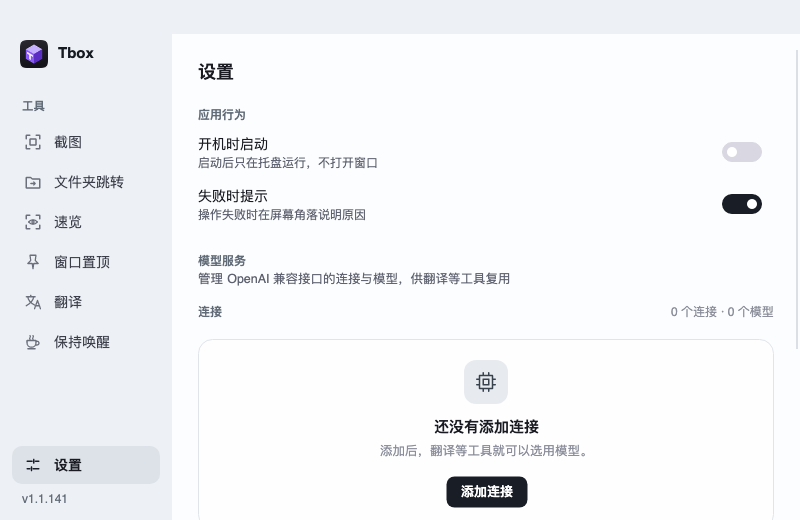
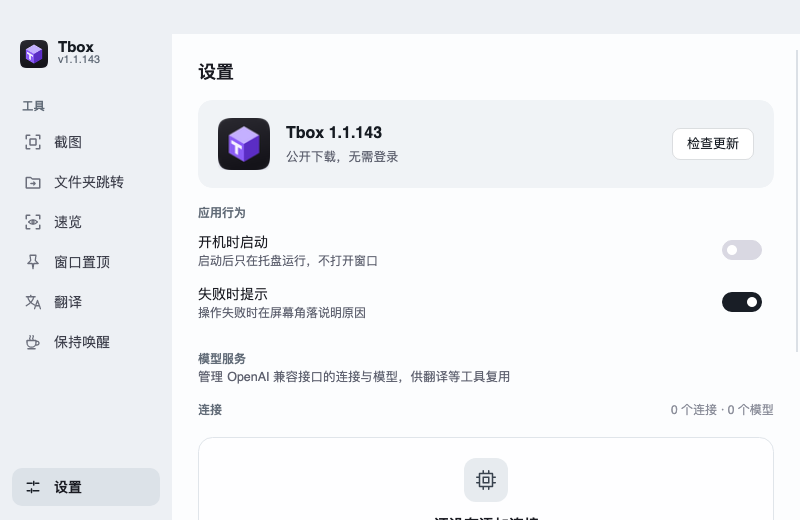
[codex] 调整设置版本卡位置并修复截图四角快速调整 (#130)
* [codex] fix: 调整版本信息位置并改进截图四角拖动

* [codex] chore: 登记验收包并准备 1.1.144 发布

diff --git a/src/Tbox.Desktop/Views/CaptureWindow.cs b/src/Tbox.Desktop/Views/CaptureWindow.cs
@@ -307,7 +307,11 @@ internal sealed class CaptureSurface : Control
         Focusable = true; Cursor = new Cursor(StandardCursorType.Cross);
     }
 
-    private CaptureSelectionBounds? Selection => _session.State.ActiveDisplay == _window.Display.Id ? _session.State.Selection : null;
+    private CaptureSelectionHandle HandleAt(Point point) => Selection is { } selection
+        ? CaptureSelectionAdjustmentPolicy.HitTest(selection, point.X, point.Y, tolerance: 7, cornerTolerance: 12)
+        : CaptureSelectionHandle.None;
+
+    internal CaptureSelectionBounds? Selection => _session.State.ActiveDisplay == _window.Display.Id ? _session.State.Selection : null;
 
     public override void Render(DrawingContext context)
     {
@@ -354,7 +358,7 @@ internal sealed class CaptureSurface : Control
         Focus(); _window.Activate();
         _start = Clamp(e.GetPosition(this));
         _clickTarget = Selection is null ? DetectedSelection : null;
-        _handle = Selection is { } old ? CaptureSelectionAdjustmentPolicy.HitTest(old, _start.X, _start.Y, 7) : CaptureSelectionHandle.None;
+        _handle = HandleAt(_start);
         _original = Selection ?? default;
         if (_handle == CaptureSelectionHandle.None && Selection is { } selected &&
             new Rect(selected.Left, selected.Top, selected.Width, selected.Height).Contains(_start) &&
@@ -382,19 +386,31 @@ internal sealed class CaptureSurface : Control
         if (!IsDragging)
         {
             _session.QueueDetection(_window, point);
-            var handle = Selection is { } bounds ? CaptureSelectionAdjustmentPolicy.HitTest(bounds, point.X, point.Y, 7) : CaptureSelectionHandle.None;
+            var handle = HandleAt(point);
             Cursor = new Cursor(handle switch
             {
                 CaptureSelectionHandle.Left or CaptureSelectionHandle.Right => StandardCursorType.SizeWestEast,
                 CaptureSelectionHandle.Top or CaptureSelectionHandle.Bottom => StandardCursorType.SizeNorthSouth,
-                CaptureSelectionHandle.TopLeft or CaptureSelectionHandle.BottomRight => StandardCursorType.TopLeftCorner,
-                CaptureSelectionHandle.TopRight or CaptureSelectionHandle.BottomLeft => StandardCursorType.TopRightCorner,
+                CaptureSelectionHandle.TopLeft => StandardCursorType.TopLeftCorner,
+                CaptureSelectionHandle.BottomRight => StandardCursorType.BottomRightCorner,
+                CaptureSelectionHandle.TopRight => StandardCursorType.TopRightCorner,
+                CaptureSelectionHandle.BottomLeft => StandardCursorType.BottomLeftCorner,
                 _ => StandardCursorType.Cross
             });
             return;
         }
+        UpdateSelection(point);
+    }
+
+    private void UpdateSelection(Point point)
+    {
+        var delta = point - _start;
+        var x = (_handle is CaptureSelectionHandle.Left or CaptureSelectionHandle.TopLeft or CaptureSelectionHandle.BottomLeft
+            ? _original.Left : _original.Right) + delta.X;
+        var y = (_handle is CaptureSelectionHandle.Top or CaptureSelectionHandle.TopLeft or CaptureSelectionHandle.TopRight
+            ? _original.Top : _original.Bottom) + delta.Y;
         var selection = _handle != CaptureSelectionHandle.None
-            ? CaptureSelectionAdjustmentPolicy.Resize(_original, _handle, point.X, point.Y, Bounds.Width, Bounds.Height, 1, 1)
+            ? CaptureSelectionAdjustmentPolicy.Resize(_original, _handle, x, y, Bounds.Width, Bounds.Height, 1, 1)
             : new CaptureSelectionBounds(Math.Min(_start.X, point.X), Math.Min(_start.Y, point.Y), Math.Abs(point.X - _start.X), Math.Abs(point.Y - _start.Y));
         _session.Select(_window.Display.Id, selection);
     }
@@ -411,6 +427,8 @@ internal sealed class CaptureSurface : Control
         var end = Clamp(e.GetPosition(this));
         if (_clickTarget is { } detected && Math.Abs(end.X - _start.X) < 3 && Math.Abs(end.Y - _start.Y) < 3)
             _session.Select(_window.Display.Id, detected, true);
+        else if (_handle != CaptureSelectionHandle.None || end != _start || Selection is not null)
+            UpdateSelection(end);
         _clickTarget = null;
         IsDragging = false; e.Pointer.Capture(null); _window.Refresh(); e.Handled = true;
     }

diff --git a/src/Tbox.Desktop/Views/MainWindow.cs b/src/Tbox.Desktop/Views/MainWindow.cs
@@ -402,8 +402,10 @@ public sealed class MainWindow : Window
     private Control Sidebar()
     {
         var name = new TextBlock { Text = "Tbox", FontSize = 15, FontWeight = FontWeight.SemiBold, VerticalAlignment = VerticalAlignment.Center };
+        var version = new TextBlock { Text = $"v{Version}", FontSize = 11, Foreground = Brush.Parse(DesignTokens.Hint) };
+        var brandText = new StackPanel { Children = { name, version } };
         var brand = new StackPanel { Orientation = Orientation.Horizontal, Spacing = 10, Margin = new Thickness(8, 0, 0, 18), IsHitTestVisible = false,
-            Children = { new Image { Source = _brand, Width = 28, Height = 28, IsHitTestVisible = false }, name } };
+            Children = { new Image { Source = _brand, Width = 28, Height = 28, VerticalAlignment = VerticalAlignment.Center, IsHitTestVisible = false }, brandText } };
         var items = new StackPanel { Spacing = 2 };
         void Group(string title) => items.Children.Add(new TextBlock { Text = title, FontSize = 11.5, FontWeight = FontWeight.SemiBold,
             Foreground = Brush.Parse(DesignTokens.Hint), Margin = new Thickness(10, 12, 0, 6), IsHitTestVisible = false });
@@ -418,11 +420,9 @@ public sealed class MainWindow : Window
         if (_controller.WindowTopmost is not null) items.Children.Add(Item(MainPage.WindowTopmost, IconKind.Pin, "窗口置顶"));
         items.Children.Add(Item(MainPage.Translation, IconKind.Translate, "翻译")); items.Children.Add(Item(MainPage.KeepAwake, IconKind.Awake, "保持唤醒"));
         var settings = Item(MainPage.Settings, IconKind.Sliders, "设置");
-        var version = new TextBlock { Text = $"v{Version}", FontSize = 12, Foreground = Brush.Parse(DesignTokens.Hint), Margin = new Thickness(10, 0, 0, 0) };
-        var footer = new StackPanel { Spacing = 10, Children = { settings, version } };
-        DockPanel.SetDock(brand, Dock.Top); DockPanel.SetDock(footer, Dock.Bottom);
+        DockPanel.SetDock(brand, Dock.Top); DockPanel.SetDock(settings, Dock.Bottom);
         // macOS draws the traffic lights over the top-left corner, so the brand moves below them.
-        return new DockPanel { Margin = new Thickness(12, OperatingSystem.IsMacOS() ? 40 : 14, 12, 14), Children = { brand, footer, items } };
+        return new DockPanel { Margin = new Thickness(12, OperatingSystem.IsMacOS() ? 40 : 14, 12, 14), Children = { brand, settings, items } };
     }
 
     private void BuildPages()
@@ -469,9 +469,9 @@ public sealed class MainWindow : Window
         }));
         feedback.Content = new SettingsLine("反馈问题", "在 GitHub 提交问题或建议", new LineIcon(IconKind.Chevron, brush: Brush.Parse(DesignTokens.Hint)) { Width = 16, Height = 16 });
         Hover(feedback, "#F7F6FB", 8);
-        AddPage(MainPage.Settings, PageHeader("设置", null),
+        AddPage(MainPage.Settings, PageHeader("设置", null), Spaced(_update, 10),
             Ui.GroupHeader("应用行为"), Ui.Rows(_startup, new SettingsLine("失败时提示", "操作失败时在屏幕角落说明原因", _failureToggle)),
-            Spaced(_models, 24), Ui.GroupHeader("版本与反馈"), _update, feedback);
+            Spaced(_models, 24), Spaced(feedback, 20));
     }
 
     private static Expander Disclosure(string name, Control content)

diff --git a/src/Tbox.Core/CaptureSelectionAdjustmentPolicy.cs b/src/Tbox.Core/CaptureSelectionAdjustmentPolicy.cs
@@ -29,28 +29,26 @@ public static class CaptureSelectionAdjustmentPolicy
         CaptureSelectionBounds bounds,
         double x,
         double y,
-        double tolerance)
+        double tolerance,
+        double? cornerTolerance = null)
     {
         if (bounds.Width < 0 || bounds.Height < 0) throw new ArgumentOutOfRangeException(nameof(bounds));
         if (tolerance < 0) throw new ArgumentOutOfRangeException(nameof(tolerance));
 
-        var withinHorizontalRange = x >= bounds.Left - tolerance && x <= bounds.Right + tolerance;
-        var withinVerticalRange = y >= bounds.Top - tolerance && y <= bounds.Bottom + tolerance;
-        if (!withinHorizontalRange || !withinVerticalRange) return CaptureSelectionHandle.None;
-
-        var nearLeft = Math.Abs(x - bounds.Left) <= tolerance;
-        var nearRight = Math.Abs(x - bounds.Right) <= tolerance;
-        var nearTop = Math.Abs(y - bounds.Top) <= tolerance;
-        var nearBottom = Math.Abs(y - bounds.Bottom) <= tolerance;
-
-        if (nearLeft && nearTop) return CaptureSelectionHandle.TopLeft;
-        if (nearRight && nearTop) return CaptureSelectionHandle.TopRight;
-        if (nearLeft && nearBottom) return CaptureSelectionHandle.BottomLeft;
-        if (nearRight && nearBottom) return CaptureSelectionHandle.BottomRight;
-        if (nearLeft) return CaptureSelectionHandle.Left;
-        if (nearRight) return CaptureSelectionHandle.Right;
-        if (nearTop) return CaptureSelectionHandle.Top;
-        if (nearBottom) return CaptureSelectionHandle.Bottom;
+        var corner = Math.Max(tolerance, cornerTolerance ?? tolerance);
+        var left = Math.Abs(x - bounds.Left);
+        var right = Math.Abs(x - bounds.Right);
+        var top = Math.Abs(y - bounds.Top);
+        var bottom = Math.Abs(y - bounds.Bottom);
+        if (Math.Min(left, right) <= corner && Math.Min(top, bottom) <= corner)
+        {
+            if (top <= bottom) return left <= right ? CaptureSelectionHandle.TopLeft : CaptureSelectionHandle.TopRight;
+            return left <= right ? CaptureSelectionHandle.BottomLeft : CaptureSelectionHandle.BottomRight;
+        }
+        if (y >= bounds.Top && y <= bounds.Bottom && Math.Min(left, right) <= tolerance)
+            return left <= right ? CaptureSelectionHandle.Left : CaptureSelectionHandle.Right;
+        if (x >= bounds.Left && x <= bounds.Right && Math.Min(top, bottom) <= tolerance)
+            return top <= bottom ? CaptureSelectionHandle.Top : CaptureSelectionHandle.Bottom;
         return CaptureSelectionHandle.None;
     }
 

diff --git a/tests/Tbox.Desktop.Tests/MainWindowTests.cs b/tests/Tbox.Desktop.Tests/MainWindowTests.cs
@@ -266,8 +266,15 @@ public sealed class MainWindowTests
         Layout(main);
         var headings = main.CurrentPageView.GetVisualDescendants().OfType<TextBlock>().Where(t => t.IsEffectivelyVisible).ToArray();
         Assert.Equal(18, Assert.Single(headings, t => t.Text == "设置").FontSize);
-        foreach (var group in new[] { "应用行为", "模型服务", "版本与反馈" })
+        foreach (var group in new[] { "应用行为", "模型服务" })
             Assert.Equal(DesignTokens.Caption, Assert.Single(headings, t => t.Text == group).FontSize);
+        var card = Assert.Single(main.CurrentPageView.GetVisualDescendants().OfType<UpdateCard>());
+        var behavior = Assert.Single(headings, t => t.Text == "应用行为");
+        Assert.True(card.TranslatePoint(new Point(0, card.Bounds.Height), main)!.Value.Y <= behavior.TranslatePoint(default, main)!.Value.Y);
+        var version = Assert.Single(main.GetVisualDescendants().OfType<TextBlock>(), t => t.Text == $"v{MainWindow.Version}");
+        var brand = Assert.Single(main.GetVisualDescendants().OfType<TextBlock>(), t => t.Text == "Tbox");
+        Assert.Same(brand.Parent, version.Parent);
+        Assert.True(version.TranslatePoint(default, main)!.Value.Y >= brand.TranslatePoint(new Point(0, brand.Bounds.Height), main)!.Value.Y);
         main.Navigate(MainPage.Capture);
         Layout(main);
         var actions = new[] { "贴出剪贴板", "长截图", "录屏", "识别文字" }.Select(label => Find(main, label)).ToArray();

diff --git a/tests/Tbox.Desktop.Tests/TaskToolbarTests.cs b/tests/Tbox.Desktop.Tests/TaskToolbarTests.cs
@@ -699,6 +699,23 @@ public sealed class TaskToolbarTests
         Assert.Equal(tool is AnnotationTool.Mosaic or AnnotationTool.Eraser ? 0 : 5, colors);
     }
 
+    [AvaloniaTheory]
+    [InlineData(210, 130, 180, 105, 190, 115, 570, 305)]
+    [InlineData(770, 130, 800, 105, 220, 115, 570, 305)]
+    [InlineData(210, 430, 180, 455, 190, 140, 570, 305)]
+    [InlineData(770, 430, 800, 455, 220, 140, 570, 305)]
+    public async Task QuickCornerDragKeepsOppositeCornerAndUsesTheReleasePosition(
+        int x, int y, int endX, int endY, int left, int top, int width, int height)
+    {
+        using var scope = await CaptureScope.StartAsync(null);
+        var window = scope.Window;
+        window.MouseDown(new Point(x, y), MouseButton.Left, RawInputModifiers.None);
+        window.MouseMove(new Point(x + 1, y + 1), RawInputModifiers.LeftMouseButton);
+        window.MouseUp(new Point(endX, endY), MouseButton.Left, RawInputModifiers.None);
+        Layout(window);
+        Assert.Equal(new CaptureSelectionBounds(left, top, width, height), window.Surface.Selection);
+    }
+
     [AvaloniaFact]
     public async Task EllipseWidthButtonsUpdateTheDrawingAndStopAtBothLimits()
     {

diff --git a/src/Tbox.Desktop/Views/SelectionOutline.cs b/src/Tbox.Desktop/Views/SelectionOutline.cs
@@ -21,8 +21,13 @@ internal sealed class SelectionOutline(IBrush color, bool handles = true) : Cont
         var pen = new Pen(color, 1.5, dashed ? new DashStyle([4, 3], 0) : null);
         context.DrawRectangle(null, pen, r);
         if (!handles) return;
-        foreach (var p in new[] { r.TopLeft, new Point(r.Center.X, r.Top), r.TopRight, new Point(r.Right, r.Center.Y),
-            r.BottomRight, new Point(r.Center.X, r.Bottom), r.BottomLeft, new Point(r.Left, r.Center.Y) })
-            context.DrawRectangle(Brushes.White, pen, new RoundedRect(new Rect(p.X - 4, p.Y - 4, 8, 8), 2));
+        foreach (var p in new[] { r.TopLeft, r.TopRight, r.BottomRight, r.BottomLeft })
+            DrawHandle(p, 5);
+        foreach (var p in new[] { new Point(r.Center.X, r.Top), new Point(r.Right, r.Center.Y),
+            new Point(r.Center.X, r.Bottom), new Point(r.Left, r.Center.Y) })
+            DrawHandle(p, 4);
+
+        void DrawHandle(Point point, double radius) => context.DrawRectangle(Brushes.White, pen,
+            new RoundedRect(new Rect(point.X - radius, point.Y - radius, radius * 2, radius * 2), 2));
     }
 }

diff --git a/tests/Tbox.Core.Tests/SettingsTests.cs b/tests/Tbox.Core.Tests/SettingsTests.cs
@@ -118,6 +118,14 @@ public sealed class SettingsTests
     }
 
     [Fact]
+    public void OverlappingCornerTargetsChooseTheNearestCornerOfASmallSelection()
+    {
+        var bounds = new CaptureSelectionBounds(100, 80, 8, 6);
+        Assert.Equal(CaptureSelectionHandle.BottomRight, CaptureSelectionAdjustmentPolicy.HitTest(bounds, 107, 85, 7, 12));
+        Assert.Equal(CaptureSelectionHandle.TopRight, CaptureSelectionAdjustmentPolicy.HitTest(bounds, 109, 78, 7, 12));
+    }
+
+    [Fact]
     public void CaptureSelectionResizeKeepsOppositeEdgesFixedAndClampsToSurface()
     {
         var bounds = new CaptureSelectionBounds(100, 80, 400, 300);

diff --git a/docs/release-history.md b/docs/release-history.md
@@ -58,6 +58,7 @@
[4 lines of base64/hex data omitted]
 
 ## macOS 开发包
 
@@ -136,6 +137,7 @@
[4 lines of base64/hex data omitted]
 
 ## Windows 共用桌面开发包
 

diff --git a/docs/releases/v1.1.144.md b/docs/releases/v1.1.144.md
@@ -1,0 +1,7 @@
+## 设置与截图选区
+
+侧栏左上角的 Tbox 名称下方显示版本号，底部保留设置入口。打开设置即可看到当前版本和「检查更新」。下方依次排列应用行为、模型服务和反馈问题。
+
+框选截图后，将指针移到任意角点附近即可沿对角线调整宽度和高度。拖动时对角保持固定，快速松手也按最终位置截取。四边仍可独立调整。
+
+支持 Windows 11 x64 和搭载 Apple 芯片的 macOS 26 及以上版本。覆盖升级保留现有配置。
